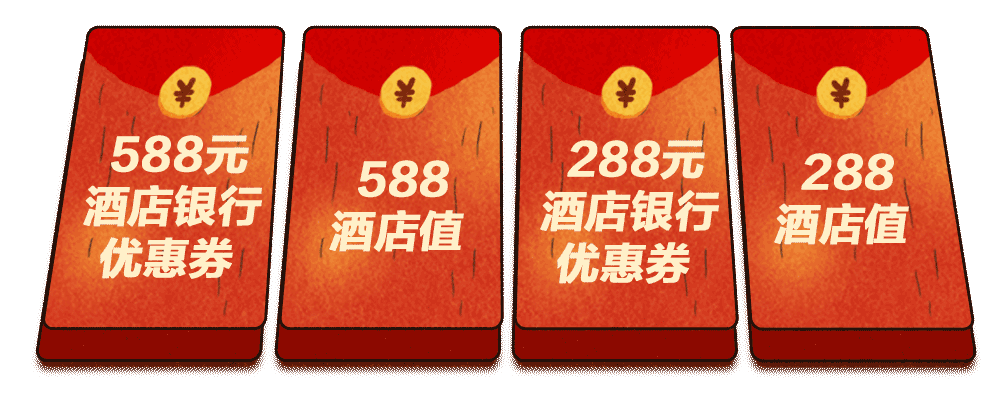
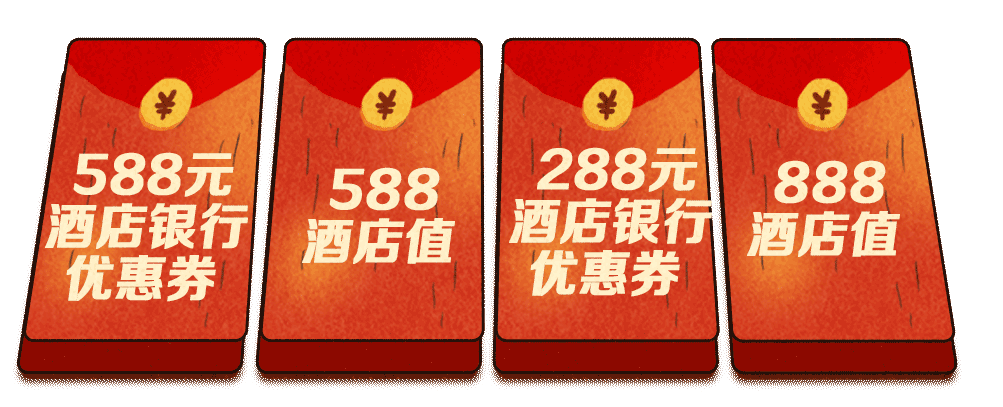
fix: 最后修改

diff --git a/src/spdb-hotal/index.html b/src/spdb-hotal/index.html
@@ -44,7 +44,7 @@
         <figure class="page-b__boom op-hidden"></figure>
         <figure class="page-b__suitcase op-hidden">
           <figure class="page-b__suitcase-talk op-hidden">
-            <div class="page-b__suitcase-tip ani-light-text">获得588酒店值</div>
+            <div class="page-b__suitcase-tip ani-light-text">获得888酒店值</div>
           </figure>
         </figure>
       </figure>
@@ -78,29 +78,28 @@
     </section>
     <section class="page-e op-bg-adaptive op-hidden">
       <figure class="page-e__beizi op-hidden"></figure>
-      <figure class="page-e__talk op-hidden"></figure>
+      <!--<figure class="page-e__talk op-hidden"></figure>-->
     </section>
     <section class="page-f op-bg-adaptive op-hidden">
       <figure class="page-f__shell2"></figure>
       <figure class="page-f__hotals"></figure>
-      <figure class="page-f__hand">
-        <figure class="page-f__bill"></figure>
-      </figure>
+      <!--<figure class="page-f__hand">-->
+        <!--<figure class="page-f__bill"></figure>-->
+      <!--</figure>-->
       <figure class="page-f__shell op-hidden">
         <figure class="page-f__talk op-hidden"></figure>
       </figure>
     </section>
-    <section class="page-g op-bg-adaptive op-hidden">
-      <figure class="page-g__coin op-hidden"></figure>
-      <figure class="page-g__light op-hidden"></figure>
-      <figure class="page-g__case"></figure>
-      <!--<figure class="page-g__case animated bounceInDown"></figure>-->
-      <figure class="page-g__hand">
-        <figure class="page-g__bill"></figure>
-        <figure class="page-g__bill-detail op-hidden"></figure>
-        <figure class="page-g__bill-discount op-hidden"></figure>
-      </figure>
-    </section>
+    <!--<section class="page-g op-bg-adaptive op-hidden">-->
+      <!--<figure class="page-g__coin op-hidden"></figure>-->
+      <!--<figure class="page-g__light op-hidden"></figure>-->
+      <!--<figure class="page-g__case"></figure>-->
+      <!--<figure class="page-g__hand">-->
+        <!--<figure class="page-g__bill"></figure>-->
+        <!--<figure class="page-g__bill-detail op-hidden"></figure>-->
+        <!--<figure class="page-g__bill-discount op-hidden"></figure>-->
+      <!--</figure>-->
+    <!--</section>-->
     <section class="page-h op-bg-adaptive op-hidden">
       <figure class="page-h__msg"></figure>
       <figure class="page-h__hongbao">

diff --git a/src/spdb-hotal/js/page-f.js b/src/spdb-hotal/js/page-f.js
@@ -3,22 +3,22 @@ function PageF (element, callback) {
   this.$root = element;
 
   this.$talk = element.find('.page-f__talk');
-  this.$hand = element.find('.page-f__hand');
-  this.$bill = element.find('.page-f__bill');
+  // this.$hand = element.find('.page-f__hand');
+  // this.$bill = element.find('.page-f__bill');
   this.$shell = element.find('.page-f__shell');
   this.$shell2 = element.find('.page-f__shell2');
 
   this.callback = callback;
 }
 
-PageF.prototype.showBill = function() {
-  return new Promise(resolve => {
-    this.$hand
-      .css({ transition: 'all 1s ease-in-out'})
-      .css({ transform: 'translateX(0)' })
-      .one('transitionend', resolve);
-  });
-};
+// PageF.prototype.showBill = function() {
+//   return new Promise(resolve => {
+//     this.$hand
+//       .css({ transition: 'all 1s ease-in-out'})
+//       .css({ transform: 'translateX(0)' })
+//       .one('transitionend', resolve);
+//   });
+// };
 
 PageF.prototype.run = function() {
   return new Promise(resolve => {
@@ -29,12 +29,12 @@ PageF.prototype.run = function() {
         .css({ backgroundSize: '100% 100%' })
         .one('transitionend', () => {
           setTimeout(() => {
-            this.showBill().then(() => {
+            // this.showBill().then(() => {
               this.$shell2.hide();
               this.$shell.show().on('click', () => {
                 this.$talk.fadeIn(500, () => setTimeout(resolve, 1000));
               });
-            });
+            // });
           }, 1000);
         });
     });

diff --git a/src/spdb-hotal/js/page-e.js b/src/spdb-hotal/js/page-e.js
@@ -2,7 +2,7 @@ function PageE (element, callback) {
   // 根元素
   this.$root = element;
 
-  this.$talk = element.find('.page-e__talk');
+  // this.$talk = element.find('.page-e__talk');
   this.$beizi = element.find('.page-e__beizi');
 
   this.callback = callback;
@@ -31,8 +31,8 @@ function moveLine(element, toDir, speed = 1) {
 PageE.prototype.run = function() {
   return moveLine(this.$root, 'top', 1.5).then(() => {
     return new Promise((resolve) => {
-      this.$talk.fadeIn(1000, () => {
-        this.$talk.fadeOut(1000, () => {
+      // this.$talk.fadeIn(1000, () => {
+      //   this.$talk.fadeOut(1000, () => {
           this.$beizi.fadeIn(500);
           setTimeout(() => {
             this.$beizi
@@ -40,8 +40,8 @@ PageE.prototype.run = function() {
               .css({ backgroundSize: '100% 100%' })
               .one('transitionend', resolve);
           });
-        });
-      });
+        // });
+      // });
     });
   });
 };

diff --git a/src/spdb-hotal/scss/page-c.scss b/src/spdb-hotal/scss/page-c.scss
@@ -5,10 +5,10 @@
     @include background-obj('../img/f3/hongbao.gif', 1003px, 407px, initial, initial, 16%, 6%);
   }
   &__hongbao2 {
-    @include background-obj('../img/f3/hongbao2.png', 1003px, 407px, initial, initial, 16%, 6%);
+    @include background-obj('../img/f3/hongbao2.png', 1003px, 407px, initial, initial, 17%, 4%);
   }
   &__hongbao3 {
-    @include background-obj('../img/f3/hongbao3.png', 1003px, 407px, initial, initial, 16%, 6%);
+    @include background-obj('../img/f3/hongbao3.png', 1003px, 407px, initial, initial, 17%, 4%);
   }
   &__paizi {
     @include background-obj('../img/f3/paizi.png', 858px, 436px, initial, initial, 18%, 13%);

diff --git a/src/spdb-hotal/js/script.js b/src/spdb-hotal/js/script.js
@@ -144,16 +144,7 @@ function start() {
     .then(() => {
       pageD.$root.hide();
       pageE.$root.hide();
-      pageF.$root
-        .css({ transition: 'all 1s ease-in-out' })
-        .css({ transform: 'translateY(100%)' })
-        .one('transitionend', () => pageF.$root.hide());
-      pageG = new PageG($pageG);
-      return moveLine(pageG.$root, 'bottom');
-    })
-    .then(() => pageG.run())
-    .then(() => {
-      pageG.$root.hide();
+      pageF.$root.hide();
       pageH = new PageH($pageH);
       return moveLine(pageH.$root, 'left');
     })

diff --git a/src/spdb-hotal/js/page-d.js b/src/spdb-hotal/js/page-d.js
@@ -19,12 +19,12 @@ function PageD (element, callback) {
 PageD.prototype.girlFall = function() {
   return new Promise((resolve) => {
     this.$girlFall
-      .css({ transition: 'all 2s ease-in-out'})
+      .css({ transition: 'all 1.5s ease-in-out'})
       .css({ top: '20%' })
       .css({ opacity: .1 })
       .one('transitionend', () => {
         this.$girlFall.hide();
-        this.$girlSleep.fadeIn(1000, () => {
+        this.$girlSleep.fadeIn(800, () => {
           this.$talk.fadeIn(500, () => setTimeout(resolve, 500));
         });
       });
